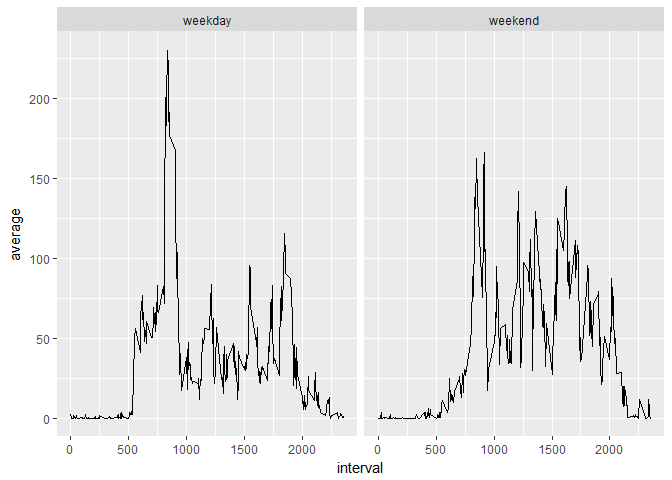
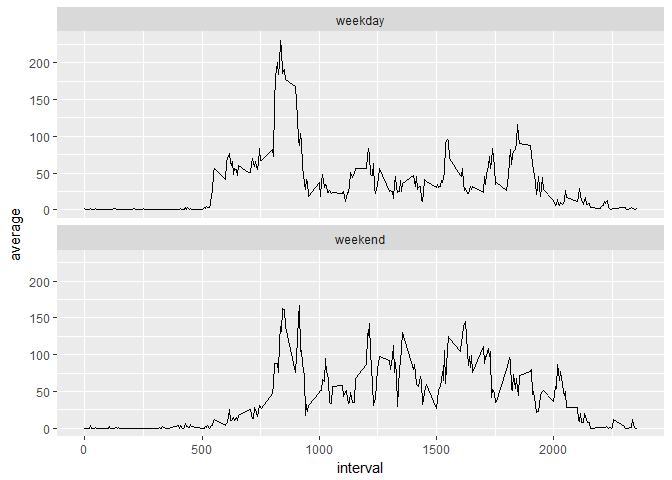
3rd commit

diff --git a/PA1_template.html b/PA1_template.html
@@ -231,9 +231,9 @@ levels(activity3$days)[!weekday_index] &lt;- &quot;weekend&quot;</code></pre>
 </ul>
 <pre class="r"><code>activity3_grouped &lt;- group_by(activity3, interval, days)
 activity3_summary &lt;- summarise(activity3_grouped, average = mean(steps))
-h&lt;-qplot(interval, average, data = activity3_summary, facets = .~days, geom = &quot;line&quot;)
+ h&lt;-qplot(interval, average, data = activity3_summary, geom = &quot;line&quot;) + facet_wrap( ~ days, nrow = 2)
 print(h)</code></pre>
[2 lines of base64/hex data omitted]
 </div>
 
 

diff --git a/PA1_template.md b/PA1_template.md
@@ -159,7 +159,7 @@ levels(activity3$days)[!weekday_index] <- "weekend"
 ```r
 activity3_grouped <- group_by(activity3, interval, days)
 activity3_summary <- summarise(activity3_grouped, average = mean(steps))
-h<-qplot(interval, average, data = activity3_summary, facets = .~days, geom = "line")
+ h<-qplot(interval, average, data = activity3_summary, geom = "line") + facet_wrap( ~ days, nrow = 2)
 print(h)
 ```
 
